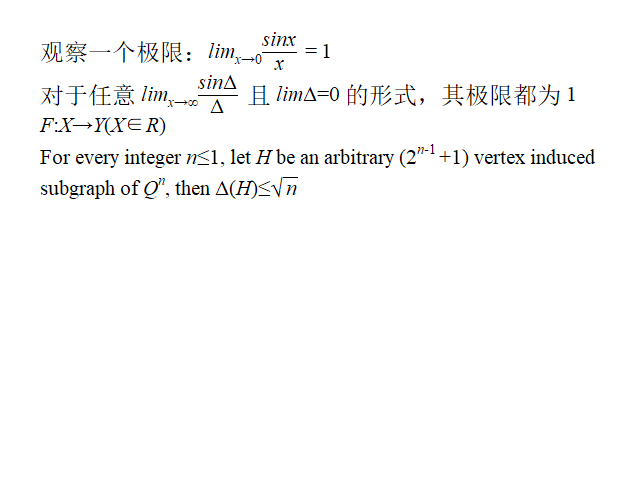
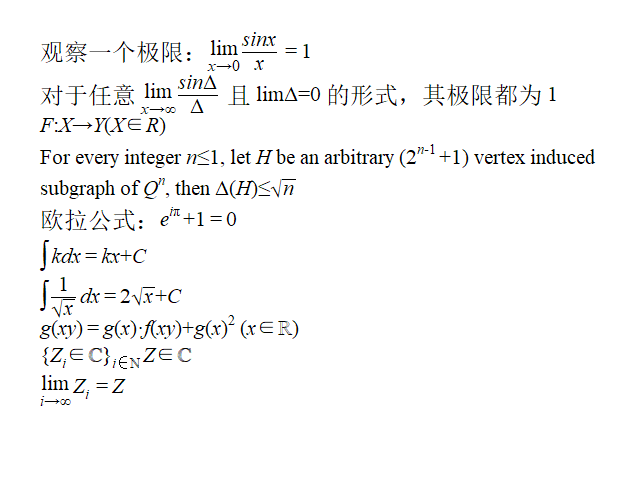
添加了部分 White Board Font

diff --git a/easytex.cpp b/easytex.cpp
@@ -368,21 +368,66 @@ int TexRender::RenderingTex(const TexString &TeXString, size_t X, size_t Y, IMAG
 
 					continue;
 				}
+				if (Function == TEXT("lim"))
+				{
+					TexString Appoarch = FetchAgrument(Character);
+
+					if (!Appoarch.empty())
+					{
+						TextHeight *= 0.8;
+
+						int Width	 = RenderingTex(Appoarch, X, Y, TargetDevice, true) - X;
+						int LimWidth = textwidth(TEXT("lim"));
+
+						TextHeight = TextHeightBackup;
+
+						if (Width <= LimWidth)
+						{
+							Outtext(X, Y - TextHeight * 0.1, TEXT("lim"), MurseOnly);
+
+							TextHeight *= 0.8;
+
+							RenderingTex(Appoarch, X + LimWidth / 2 - Width / 2, Y + TextHeight * 0.85, TargetDevice,
+										 MurseOnly);
+						}
+						else
+						{
+							Outtext(X + Width / 2 - LimWidth / 2, Y - TextHeight * 0.1, TEXT("lim"), MurseOnly);
+
+							TextHeight *= 0.8;
+
+							RenderingTex(Appoarch, X, Y + TextHeight * 0.85, TargetDevice, MurseOnly);
+						}
+						TextHeight = TextHeightBackup;
+
+						LineHeight = max(LineHeight, TextHeight + TextHeight * 0.15);
+						X += max(textwidth(TEXT("lim")), Width) + 2;
+					}
+					else
+					{
+						Outtext(X, Y, TEXT("lim"), MurseOnly);
+						X += textwidth(TEXT("lim"));
+					}
+
+					continue;
+				}
 				if (Function == TEXT("sqrt"))
 				{
 					TexString Agrument = FetchAgrument(Character);
 					int		  SqrtX	   = X;
-					int		  Width	   = RenderingTex(Agrument, X, Y, TargetDevice, true) - X;
 					int		  Top	   = 0;
+					int		  Width	   = RenderingTex(Agrument, X, Y, TargetDevice, true, &Top) - X;
 
-					X += textwidth(TEXT('√')) + 4;
+					X += textwidth(TEXT('√')) + 1;
 
 					RenderingTex(Agrument, X, Y, TargetDevice, MurseOnly, &Top);
 
 					if (!MurseOnly)
 					{
-						TexPainter::DrawSqrt(SqrtX, Y + Top, Width + textwidth(TEXT('√')) + 4, TextHeight - Top + 2);
+						TexPainter::DrawSqrt(SqrtX, Y + Top + 2, Width + textwidth(TEXT('√')) + 2, TextHeight - Top);
 					}
+
+					LineTop = min(LineTop, -TextHeight * 0.2);
 
 					X += Width + 2;
 				}
@@ -610,7 +655,7 @@ int TexRender::RenderingTex(const TexString &TeXString, size_t X, size_t Y, IMAG
 				{
 					TEX_OUT_GREEK('↓');
 				}
-				if (Function == TEXT("rightarrow"))
+				if (Function == TEXT("rightarrow") || Function == TEXT("to") || Function == TEXT("apporch"))
 				{
 					TEX_OUT_GREEK('→');
 				}
@@ -670,6 +715,10 @@ int TexRender::RenderingTex(const TexString &TeXString, size_t X, size_t Y, IMAG
 				{
 					TEX_OUT_GREEK('⊇');
 				}
+				if (Function == TEXT("cdot"))
+				{
+					TEX_OUT_GREEK('·');
+				}
 				if (Function == TEXT("infity"))
 				{
 					TEX_OUT_GREEK('∞');
@@ -682,9 +731,112 @@ int TexRender::RenderingTex(const TexString &TeXString, size_t X, size_t Y, IMAG
 
 					Outtext(X, Y - TextHeight * 0.2, TEXT('∫'), MurseOnly);
 
-					X += textwidth(TEXT('∫')) + WordSpacing;
+					X += textwidth(TEXT('∫')) + WordSpacing + 2;
 
 					LastChar = TEXT('∫');
+
+					--Character;
+
+					InPrint = false;
+
+					OldFont.SelectToDevice();
+
+					LineTop = min(LineTop, -TextHeight * 0.4);
+
+					continue;
+				}
+				if (Function == TEXT("R"))
+				{
+					TexFont OldFont;
+					TexFont SymbolFont(TextHeight, BLACK, TEXT("Times New Roman"));
+					SymbolFont.SelectToDevice();
+
+					Outtext(X, Y, TEXT('ℝ'), MurseOnly);
+
+					X += textwidth(TEXT('ℝ')) + WordSpacing;
+
+					LastChar = TEXT('ℝ');
+
+					--Character;
+
+					InPrint = false;
+
+					OldFont.SelectToDevice();
+
+					continue;
+				}
+				if (Function == TEXT("Z"))
+				{
+					TexFont OldFont;
+					TexFont SymbolFont(TextHeight, BLACK, TEXT("Times New Roman"));
+					SymbolFont.SelectToDevice();
+
+					Outtext(X, Y, TEXT('ℤ'), MurseOnly);
+
+					X += textwidth(TEXT('ℤ')) + WordSpacing;
+
+					LastChar = TEXT('ℤ');
+
+					--Character;
+
+					InPrint = false;
+
+					OldFont.SelectToDevice();
+
+					continue;
+				}
+				if (Function == TEXT("Q"))
+				{
+					TexFont OldFont;
+					TexFont SymbolFont(TextHeight, BLACK, TEXT("Times New Roman"));
+					SymbolFont.SelectToDevice();
+
+					Outtext(X, Y, TEXT('ℚ'), MurseOnly);
+
+					X += textwidth(TEXT('ℚ')) + WordSpacing;
+
+					LastChar = TEXT('ℚ');
+
+					--Character;
+
+					InPrint = false;
+
+					OldFont.SelectToDevice();
+
+					continue;
+				}
+				if (Function == TEXT("C"))
+				{
+					TexFont OldFont;
+					TexFont SymbolFont(TextHeight, BLACK, TEXT("Times New Roman"));
+					SymbolFont.SelectToDevice();
+
+					Outtext(X, Y, TEXT('ℂ'), MurseOnly);
+					Outtext(X + 1, Y, TEXT('ℂ'), MurseOnly);
+
+					X += textwidth(TEXT('ℂ')) + WordSpacing;
+
+					LastChar = TEXT('ℂ');
+
+					--Character;
+
+					InPrint = false;
+
+					OldFont.SelectToDevice();
+
+					continue;
+				}
+				if (Function == TEXT("N"))
+				{
+					TexFont OldFont;
+					TexFont SymbolFont(TextHeight, BLACK, TEXT("Times New Roman"));
+					SymbolFont.SelectToDevice();
+
+					Outtext(X, Y, TEXT('ℕ'), MurseOnly);
+
+					X += textwidth(TEXT('ℕ')) + WordSpacing;
+
+					LastChar = TEXT('ℕ');
 
 					--Character;
 
